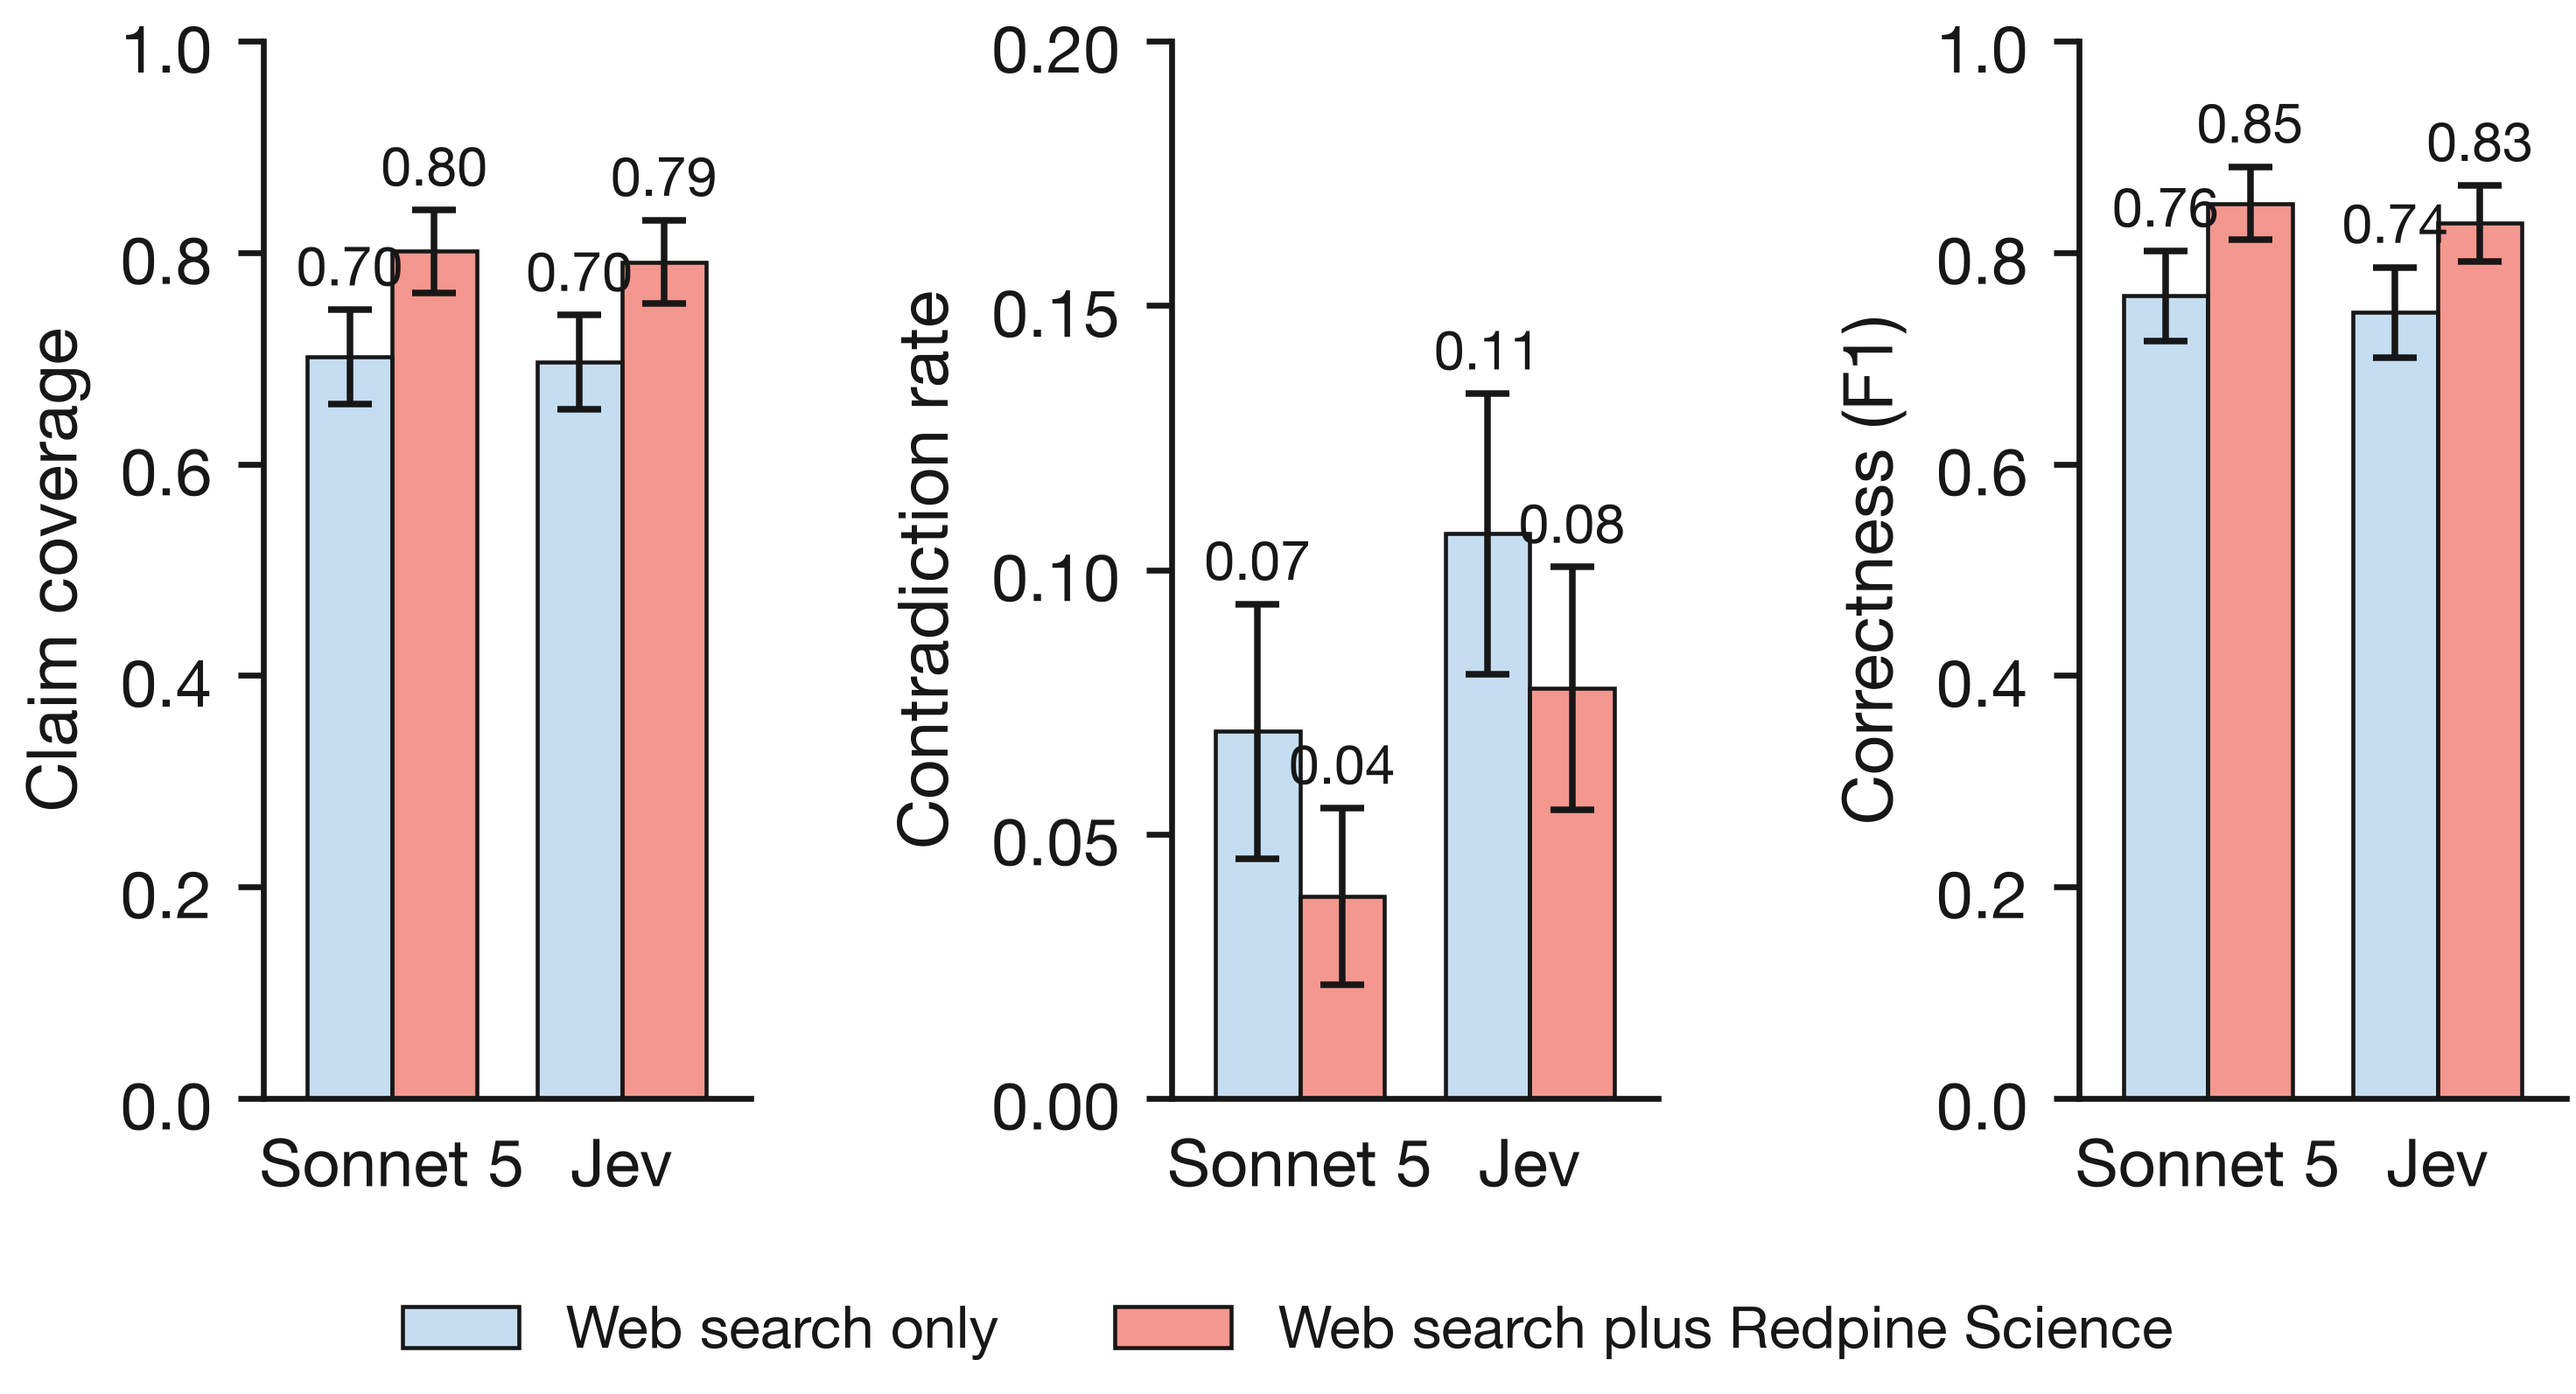
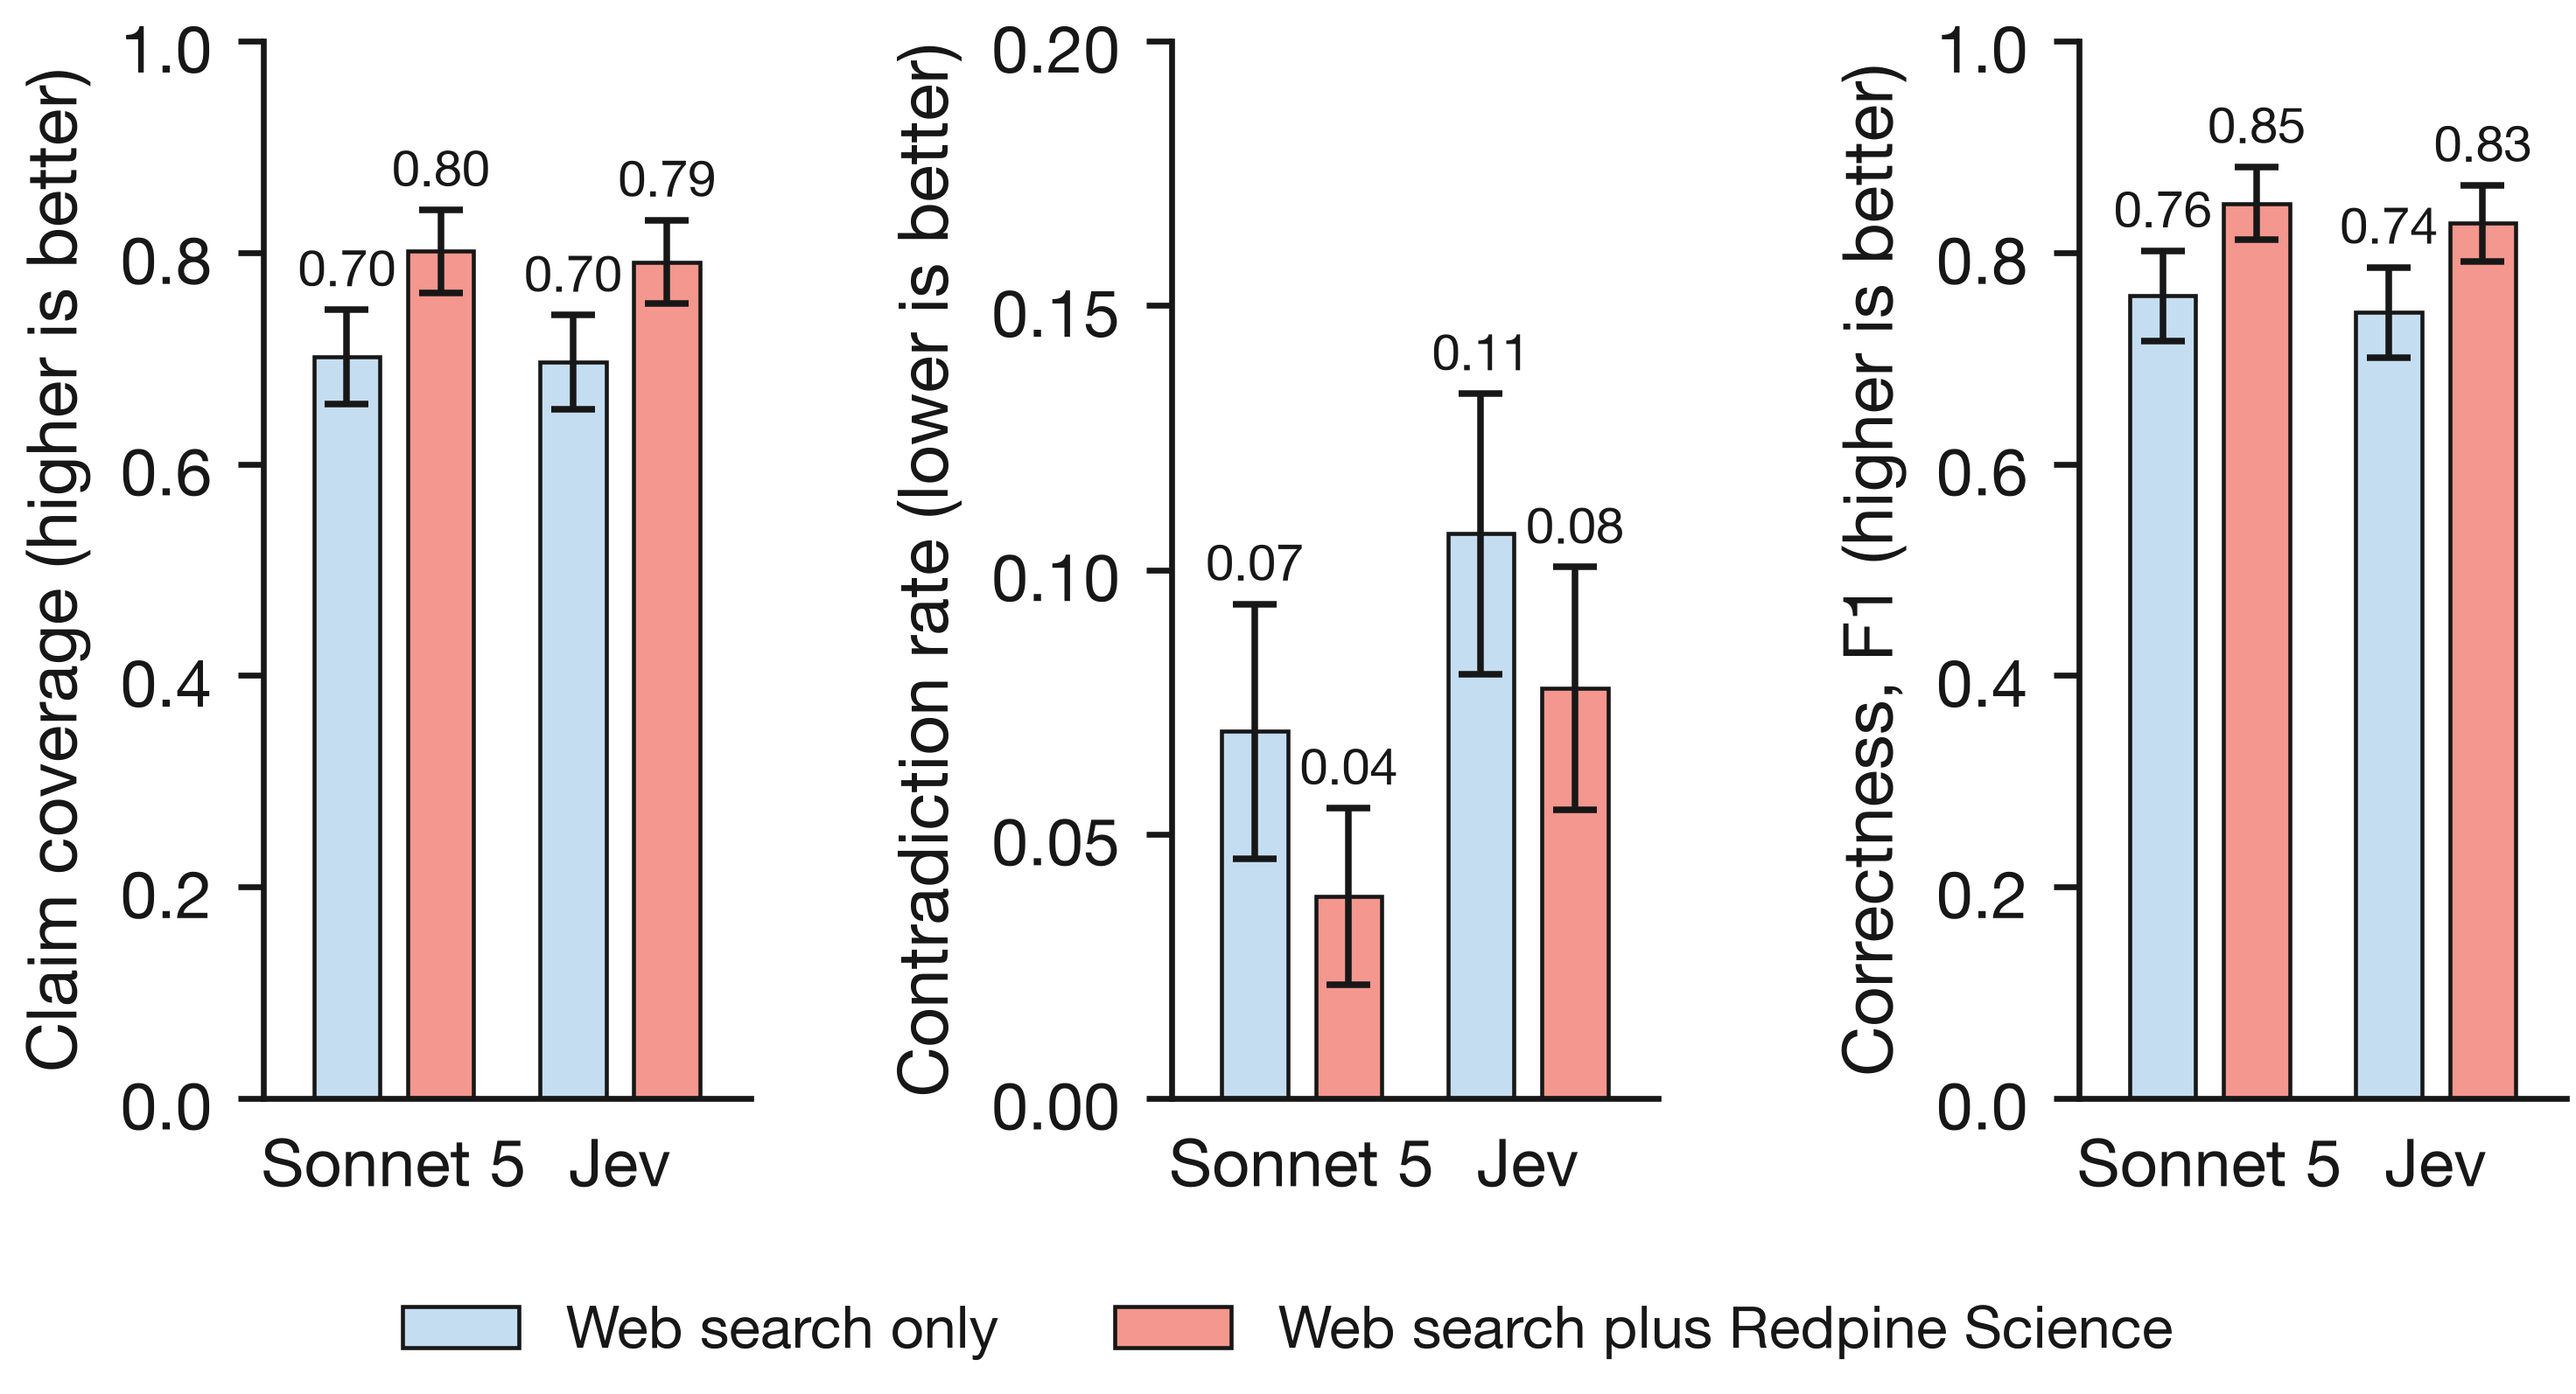
fix(figures): separate paired bars and name each metric's direction in quadrant two

diff --git a/figures/fig_quadrant2_metrics.py b/figures/fig_quadrant2_metrics.py
@@ -62,13 +62,15 @@ ARMS = ["web", "redpine"]
 ARM_LABELS = {"web": "Web search only", "redpine": "Web search plus Redpine Science"}
 
 METRICS = [
-    ("claim_coverage", "Claim coverage", (0, 1.0), [0, 0.2, 0.4, 0.6, 0.8, 1.0]),
-    ("contradiction_rate", "Contradiction rate", (0, 0.2), [0, 0.05, 0.10, 0.15, 0.20]),
-    ("correctness", "Correctness (F1)", (0, 1.0), [0, 0.2, 0.4, 0.6, 0.8, 1.0]),
+    ("claim_coverage", "Claim coverage (higher is better)", (0, 1.0), [0, 0.2, 0.4, 0.6, 0.8, 1.0]),
+    ("contradiction_rate", "Contradiction rate (lower is better)", (0, 0.2), [0, 0.05, 0.10, 0.15, 0.20]),
+    ("correctness", "Correctness, F1 (higher is better)", (0, 1.0), [0, 0.2, 0.4, 0.6, 0.8, 1.0]),
 ]
 
-BAR_WIDTH = 0.46
-GROUP_GAP = 1.25    # distance between the two judges' pairs
+BAR_WIDTH = 0.38
+PAIR_GAP = 0.16     # clear space between the two arms of one judge, so a value
+                    # label never sits over the neighbouring bar
+GROUP_GAP = 1.30    # distance between the two judges' pairs
 
 
 def _draw_panel(ax, metric, ylabel, ylim, yticks):
@@ -76,7 +78,7 @@ def _draw_panel(ax, metric, ylabel, ylim, yticks):
     for j, judge in enumerate(JUDGES):
         for k, arm in enumerate(ARMS):
             mean, half = DATA[judge][metric][arm]
-            xs.append(j * GROUP_GAP + (k - 0.5) * BAR_WIDTH)
+            xs.append(j * GROUP_GAP + (k - 0.5) * (BAR_WIDTH + PAIR_GAP))
             means.append(mean)
             errors.append(half)
             colors.append(ARM_COLORS[arm])
@@ -86,14 +88,14 @@ def _draw_panel(ax, metric, ylabel, ylim, yticks):
     # Value above each bar, clear of its error bar.
     for bar, mean, half in zip(bars, means, errors):
         ax.text(bar.get_x() + bar.get_width() / 2, mean + half + 0.012 * ylim[1],
-                f"{mean:.2f}", ha="center", va="bottom", color=DARK_GREY, fontsize=7.5)
+                f"{mean:.2f}", ha="center", va="bottom", color=DARK_GREY, fontsize=7)
     # A bar chart is read by comparing heights, so every panel starts at zero.
     ax.set_ylim(*ylim)
     ax.set_yticks(yticks)
     ax.set_ylabel(ylabel)
     ax.set_xticks([j * GROUP_GAP for j in range(len(JUDGES))])
     ax.set_xticklabels([JUDGE_LABELS[j] for j in JUDGES])
-    ax.set_xlim(-0.7, (len(JUDGES) - 1) * GROUP_GAP + 0.7)
+    ax.set_xlim(-0.75, (len(JUDGES) - 1) * GROUP_GAP + 0.75)
     ax.tick_params(axis="x", length=0)
     ax.grid(axis="x", visible=False)
     return bars

diff --git a/main.tex b/main.tex
@@ -493,7 +493,8 @@ memory, and quadrants three and four measure the retrieved papers directly.
     \caption{Claim coverage, contradiction rate and correctness by arm on the 179
     expert-validated questions (four tracks), under two judges. Sonnet 5, pass A, is
     the pre-registered judge; Jev, the mean of two passes, is an exploratory second
-    judge over the same answers. Error bars are 95 percent t intervals of the mean
+    judge over the same answers. Higher is better for coverage and correctness; lower is
+    better for the contradiction rate. Error bars are 95 percent t intervals of the mean
     over the 179 questions. The paired intervals for the differences between the arms
     are in the text.}
     \label{fig:quadrant2-metrics}
